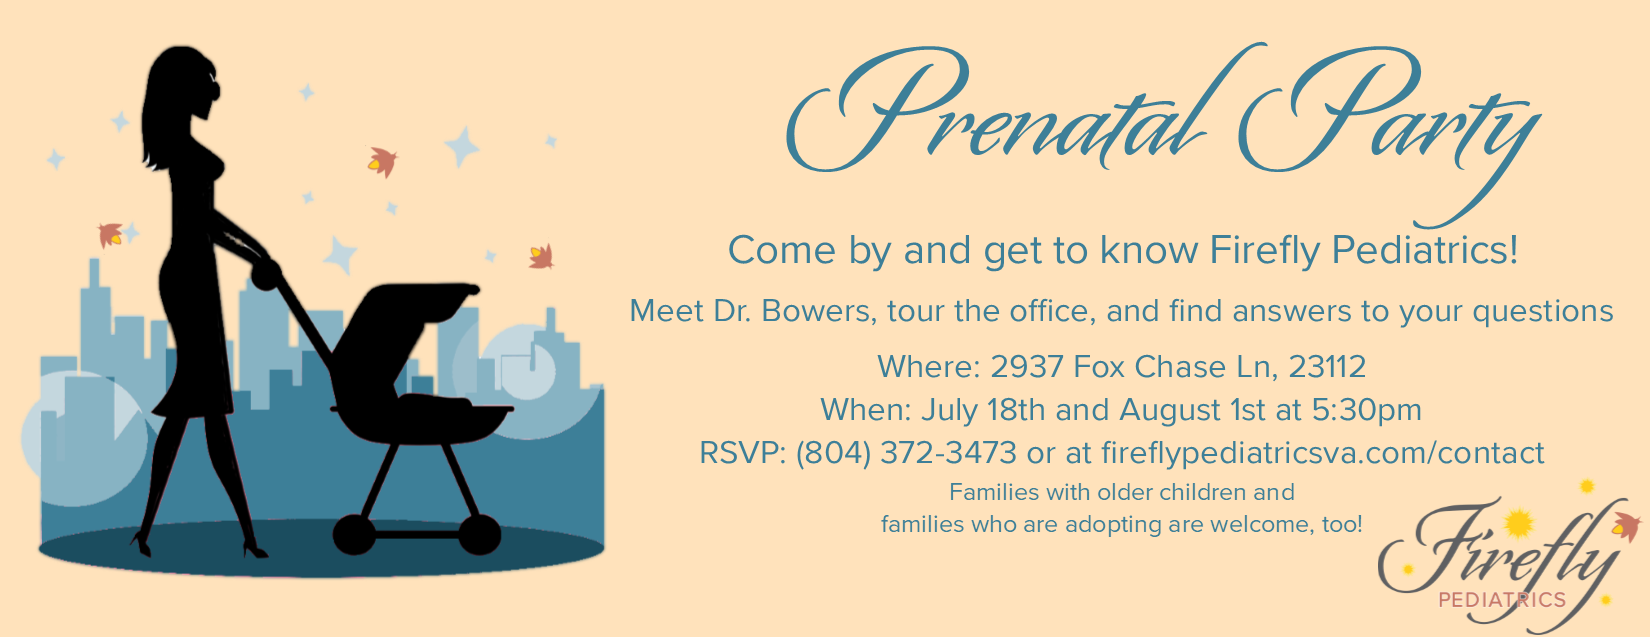
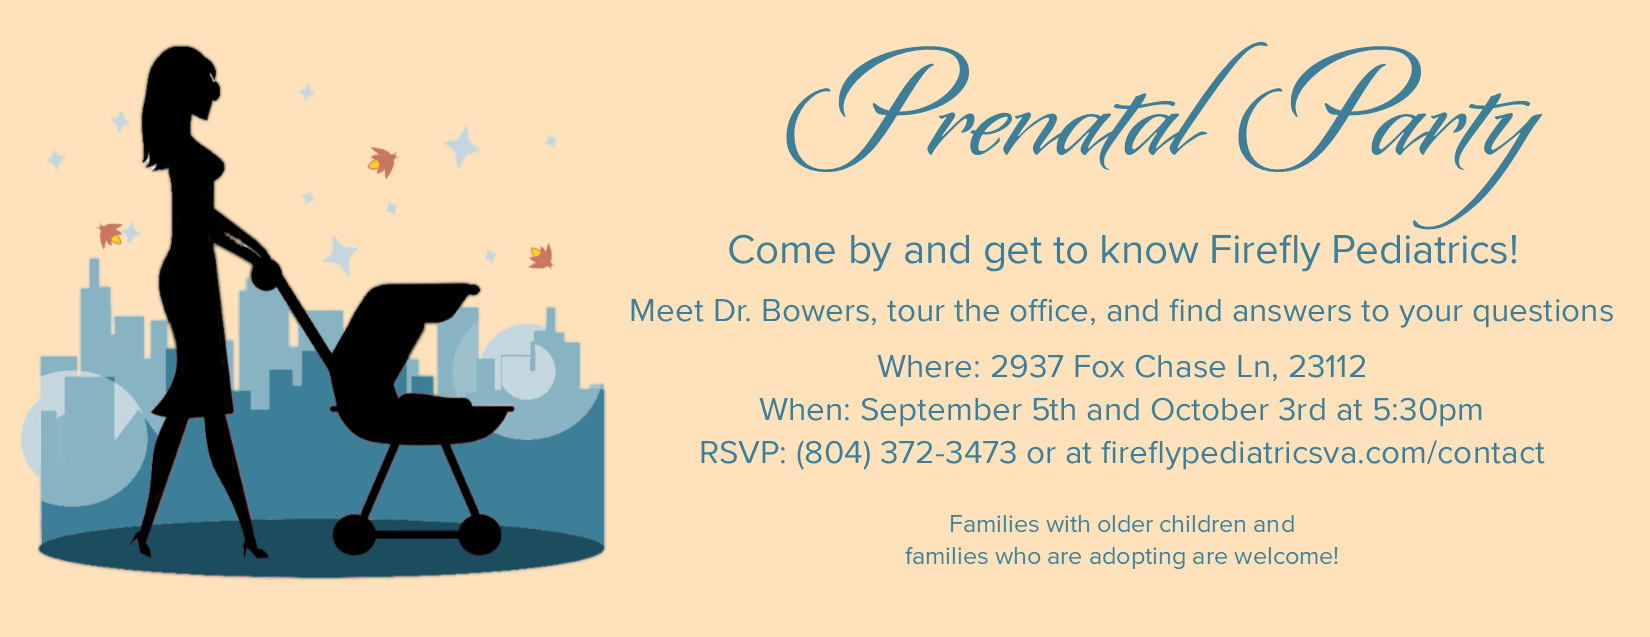
adding content

Changed region(s): [[0.5255, 0.7457, 1.0, 1.0], [0.4636, 0.6264, 0.8964, 0.686], [0.5564, 0.865, 0.8036, 0.8948]]

diff --git a/kate-bowers-md/src/components/resources/mental-health/mental-health.js b/kate-bowers-md/src/components/resources/mental-health/mental-health.js
@@ -2,6 +2,11 @@ import React from 'react';
 import UnorderedLinkedList from '../../common/link-list/unordered-link-list';
 
 function MentalHealth() {
+    const general = [
+        'Hey Sigmund - Strong Foundations for Emotional Intelligence',
+        '(book) How Full is Your Bucket?',
+    ]
+
     const postpartum = [
         'PostpartumVA',
         'The Atlantic - Postpartum Depression Can Happen to Any Parent',
@@ -26,6 +31,8 @@ function MentalHealth() {
     ]
 
     const adds = {
+        bookHowFullisYourBucket: 'https://www.amazon.com/How-Full-Your-Bucket-Kids/dp/1595620273',
+        HeySigmundStrongFoundationsforEmotionalIntelligence: 'https://www.heysigmund.com/how-to-teach-kids-about-the-brain-laying-strong-foundations-for-emotional-intelligence-by-dr-hazel-harrison/',
         BookSmartButScattered: 'https://www.amazon.com/Smart-but-Scattered-Revolutionary-Executive/dp/1593854455/ref=sr_1_1?ie=UTF8&qid=1523292095&sr=8-1&keywords=smart+but+scattered',
         AACAPADHDResourceCenter: 'https://www.aacap.org/aacap/Families_and_Youth/Resource_Centers/ADHD_Resource_Center/Home.aspx',
         ADDitudeMagInsidetheADHDMind: 'https://www.additudemag.com/',
@@ -44,12 +51,13 @@ function MentalHealth() {
         <section className='mental-health'>
             <h1>Mental Health</h1>
             <div className='content'>
-                <div className='full'>
-                    <p className='content-text'>
+                <div className='fuller '>
+                    <p className='center-align'>
                         Mental Health is such an important part of child development, and your own mental health is a huge part of how you parent. If you have any concerns about your child's mental health or your own, please bring it up with your doctor. Do not wait until your next visit! <br />Here are some valuable resources you can use to jump-start conversations with your children about mental health. Start talking about emotions when your kids are young so they have the tools to do so as they get older.
                     </p>
                 </div>
                 <div className='full'>
+                    <UnorderedLinkedList adds={adds} head='General Principles' elements={general} />
                     <UnorderedLinkedList adds={adds} head='Postpartum Blues and Depression' elements={postpartum} />
                     <UnorderedLinkedList adds={adds} head='Anxiety' elements={anxiety} />
                     <UnorderedLinkedList adds={adds} head='Behavioral Outbursts' elements={behavioralOutbursts} />

diff --git a/kate-bowers-md/src/components/resources/parenting/parenting.js b/kate-bowers-md/src/components/resources/parenting/parenting.js
@@ -59,6 +59,12 @@ const Parenting = () => {
         '(Book) The Care and Keeping of You 2 - The Body Book for Older Girls'
     ]
 
+    const LGBTQ = [
+        'CDC - LGBT Health',
+        'The Trevor Project - Crisis Intervention',
+        'PFLAG - Richmond'
+    ]
+
     const schoolAccomodations = [
         'US Dept of Education - Guide to the IEP',
         'Great Schools - A parent’s guide to Section 504 in public schools',
@@ -99,6 +105,9 @@ const Parenting = () => {
     // links
     // const adds ={noSpaceName: 'https://...'}
     const adds = {
+        PFLAGRichmond: 'http://www.pflag.org/chapter/pflag-richmond',
+        TheTrevorProjectCrisisIntervention: 'https://www.thetrevorproject.org/#sm.0015qa4vv12jbdttqim2iaf69ofqi',
+        CDCLGBTHealth: 'https://www.cdc.gov/lgbthealth/',
         AutismSpeaksWhatisAutism: 'https://www.autismspeaks.org/what-autism',
         AutismSpeaksResourceLibrary: 'https://www.autismspeaks.org/family-services/resource-library/websites-families',
         AhaParentingDisciplineThatWorks: 'http://www.ahaparenting.com/parenting-tools/discipline',
@@ -177,6 +186,7 @@ const Parenting = () => {
                 </div>
                 <UnorderedLinkedList adds={adds} head='Bullying' elements={bullying} />
                 <UnorderedLinkedList adds={adds} head='Bodies and Reproduction' elements={bodiesandReproduction} />
+                <UnorderedLinkedList adds={adds} head='LGBTQ Resources' elements={LGBTQ} />
                 <UnorderedLinkedList adds={adds} head='School Accomodations' elements={schoolAccomodations} />
                 <UnorderedLinkedList adds={adds} head='Divorce/Separation' elements={divorce} />
                 <UnorderedLinkedList adds={adds} head='Social Media' elements={socialMedia} />

diff --git a/kate-bowers-md/src/components/resources/patient-forms/patient-forms.jsx b/kate-bowers-md/src/components/resources/patient-forms/patient-forms.jsx
@@ -10,6 +10,10 @@ export const PatientForms = () => {
                 <ul>
                 <li><a className="glow" href={PrivacyNotice}>Privacy Notice</a></li>
                 <li><a className="glow" href={ReleaseOfRecords}>Release of Medical Records</a></li>
+                <li><a className="glow" href='http://blueridgekids.com/wp-content/uploads/2010/02/04VanAssesScaleTeachInfor2.pdf'>Vanderbuilt - Initial Teacher Assessment</a></li>
+                <li><a className="glow" href='http://blueridgekids.com/wp-content/uploads/2010/02/03VanAssesScaleParent-Infor.pdf'>Vanderbuilt - Initial Parent Assessment</a></li>
+                <li><a className="glow" href='http://blueridgekids.com/wp-content/uploads/2010/02/06VanAssessFollowUpTeachInfor.pdf'>Vanderbuilt - Follow-up Teacher Assessment</a></li>
+                <li><a className="glow" href='http://blueridgekids.com/wp-content/uploads/2010/02/05VanFollowUp-Parent-Infor.pdf'>Vanderbuilt - Follow-up Parent Assessment</a></li>
                 </ul>
             </article>
         </section>

diff --git a/kate-bowers-md/src/components/new-patients/new-patients.js b/kate-bowers-md/src/components/new-patients/new-patients.js
@@ -5,7 +5,7 @@ const NewPatients = () => {
     return (
         <section className="new-patients">
         <section className="prenatalParty">
-        <img src={PrenatalParty} className="PrenatalPartyInvite" alt="July 18th and August 1st at 5:30pm RSVP 804-372-3473" />
+        <img src={PrenatalParty} className="PrenatalPartyInvite" alt="September 5th and October 3rd at 5:30pm RSVP 804-372-3473" />
         </section>
             <h1>New Patients</h1>
             <div className="left">
